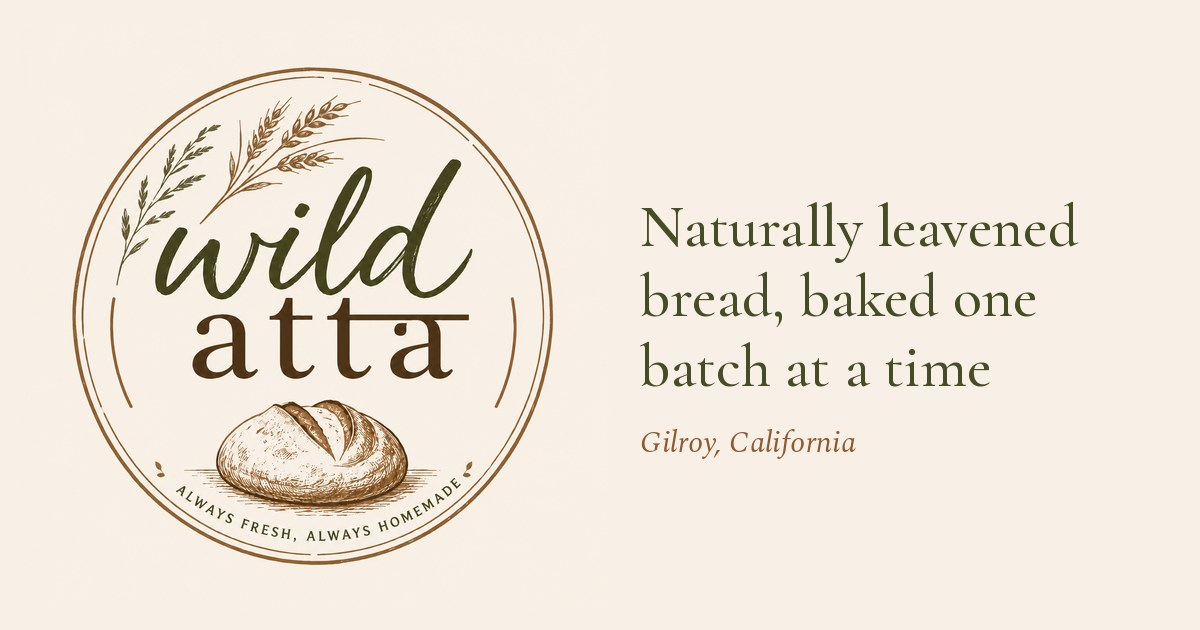
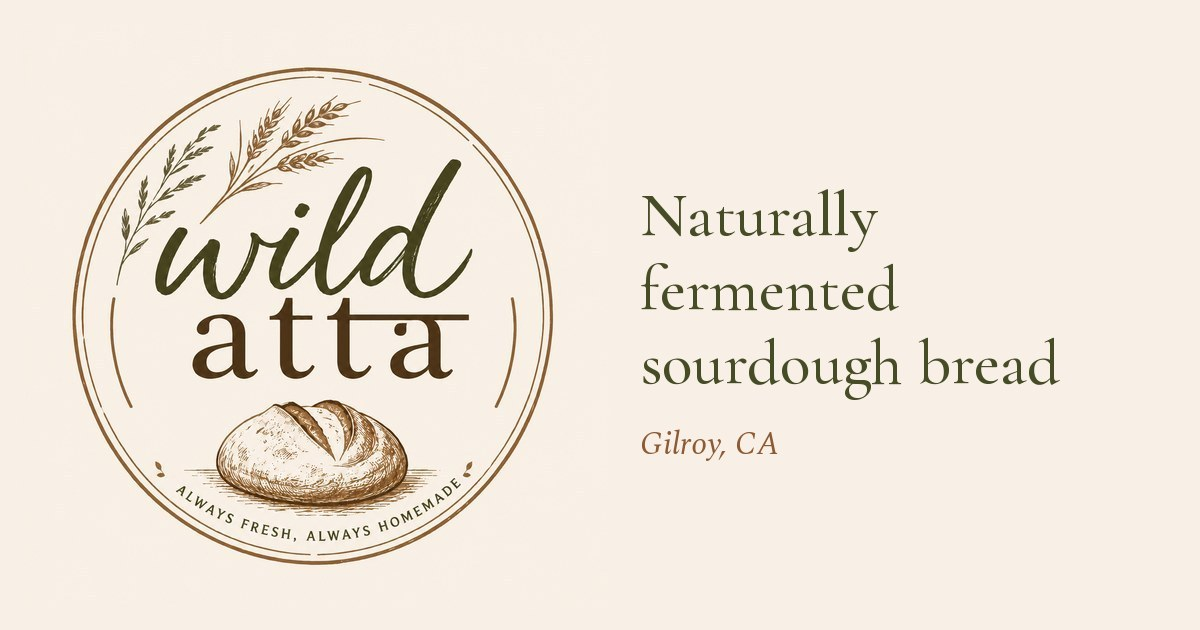
Use flyer wording: fermented sourdough bread, Gilroy, CA; drop Class A
Claude-Session: https://claude.ai/code/session_01YUVoidNymf5m6N9uziBRn7

diff --git a/src/_data/site.js b/src/_data/site.js
@@ -11,7 +11,7 @@ export default {
   // The one place the public address lives. Canonical, Open Graph and sitemap-style
   // absolute URLs are all built from it. No trailing slash.
   url: "https://wildatta.com",
-  title: "Wild Atta – sourdough and cardamom rolls in Gilroy",
+  title: "Wild Atta – naturally fermented sourdough bread in Gilroy, CA",
   locale: "en_US",
   themeColor: "#F7EFE5",
   // Link-preview image, 1200x630. Path is relative to the site root.
@@ -19,11 +19,11 @@ export default {
     image: "assets/img/share.jpg",
     width: 1200,
     height: 630,
-    alt: "Wild Atta logo: a hand-lettered wordmark with wheat sprigs, beside the words “Naturally leavened bread, baked one batch at a time. Gilroy, California.”",
+    alt: "Wild Atta logo: a hand-lettered wordmark with wheat sprigs, beside the words “Naturally fermented sourdough bread. Gilroy, CA.”",
   },
   tagline: "Naturally fermented sourdough bread. Gilroy, CA.",
   description:
-    "Naturally fermented sourdough bread. Gilroy, CA. Baked one batch at a time, with cardamom cinnamon rolls too.",
+    "Naturally fermented sourdough bread. Gilroy, CA. Baked one batch at a time.",
   showPlaceholders: true,
 
   // Public social profiles. Add more here (and they appear in the Find section).
@@ -39,7 +39,7 @@ export default {
   ],
 
   hero: {
-    title: "Naturally leavened bread, baked one batch at a time in Gilroy.",
+    title: "Naturally fermented sourdough bread, baked one batch at a time in Gilroy, CA.",
     lead: "Wild yeast, wholemeal flour, salt, water, and about thirty hours. That’s the whole recipe.",
     cta: "This week’s bake",
     photo: { label: "Hero – crust, close", note: "Warm natural light, cream ground, one whole loaf" },
@@ -55,7 +55,7 @@ export default {
       "No mixer worth the name, no shortcuts worth taking. Just the flour I grew up eating and a fermentation that keeps its own schedule.",
     ],
     quote: "Nothing here rises faster than it wants to.",
-    quoteBy: "Gilroy, California",
+    quoteBy: "Gilroy, CA",
   },
 
   bakes: {
@@ -123,7 +123,7 @@ export default {
   footer: {
     permit: "PT0508049",
     county: "Santa Clara County",
-    legal: "Made in a home kitchen. Wild Atta is a California Cottage Food Operation (Class A), permit",
+    legal: "Made in a home kitchen. Wild Atta is a California Cottage Food Operation, permit",
     legalEnd: "Not inspected by the California Department of Public Health.",
     allergens: "Made in a home kitchen that handles wheat, rye, milk, butter, eggs and tree nuts.",
     year: 2026,
